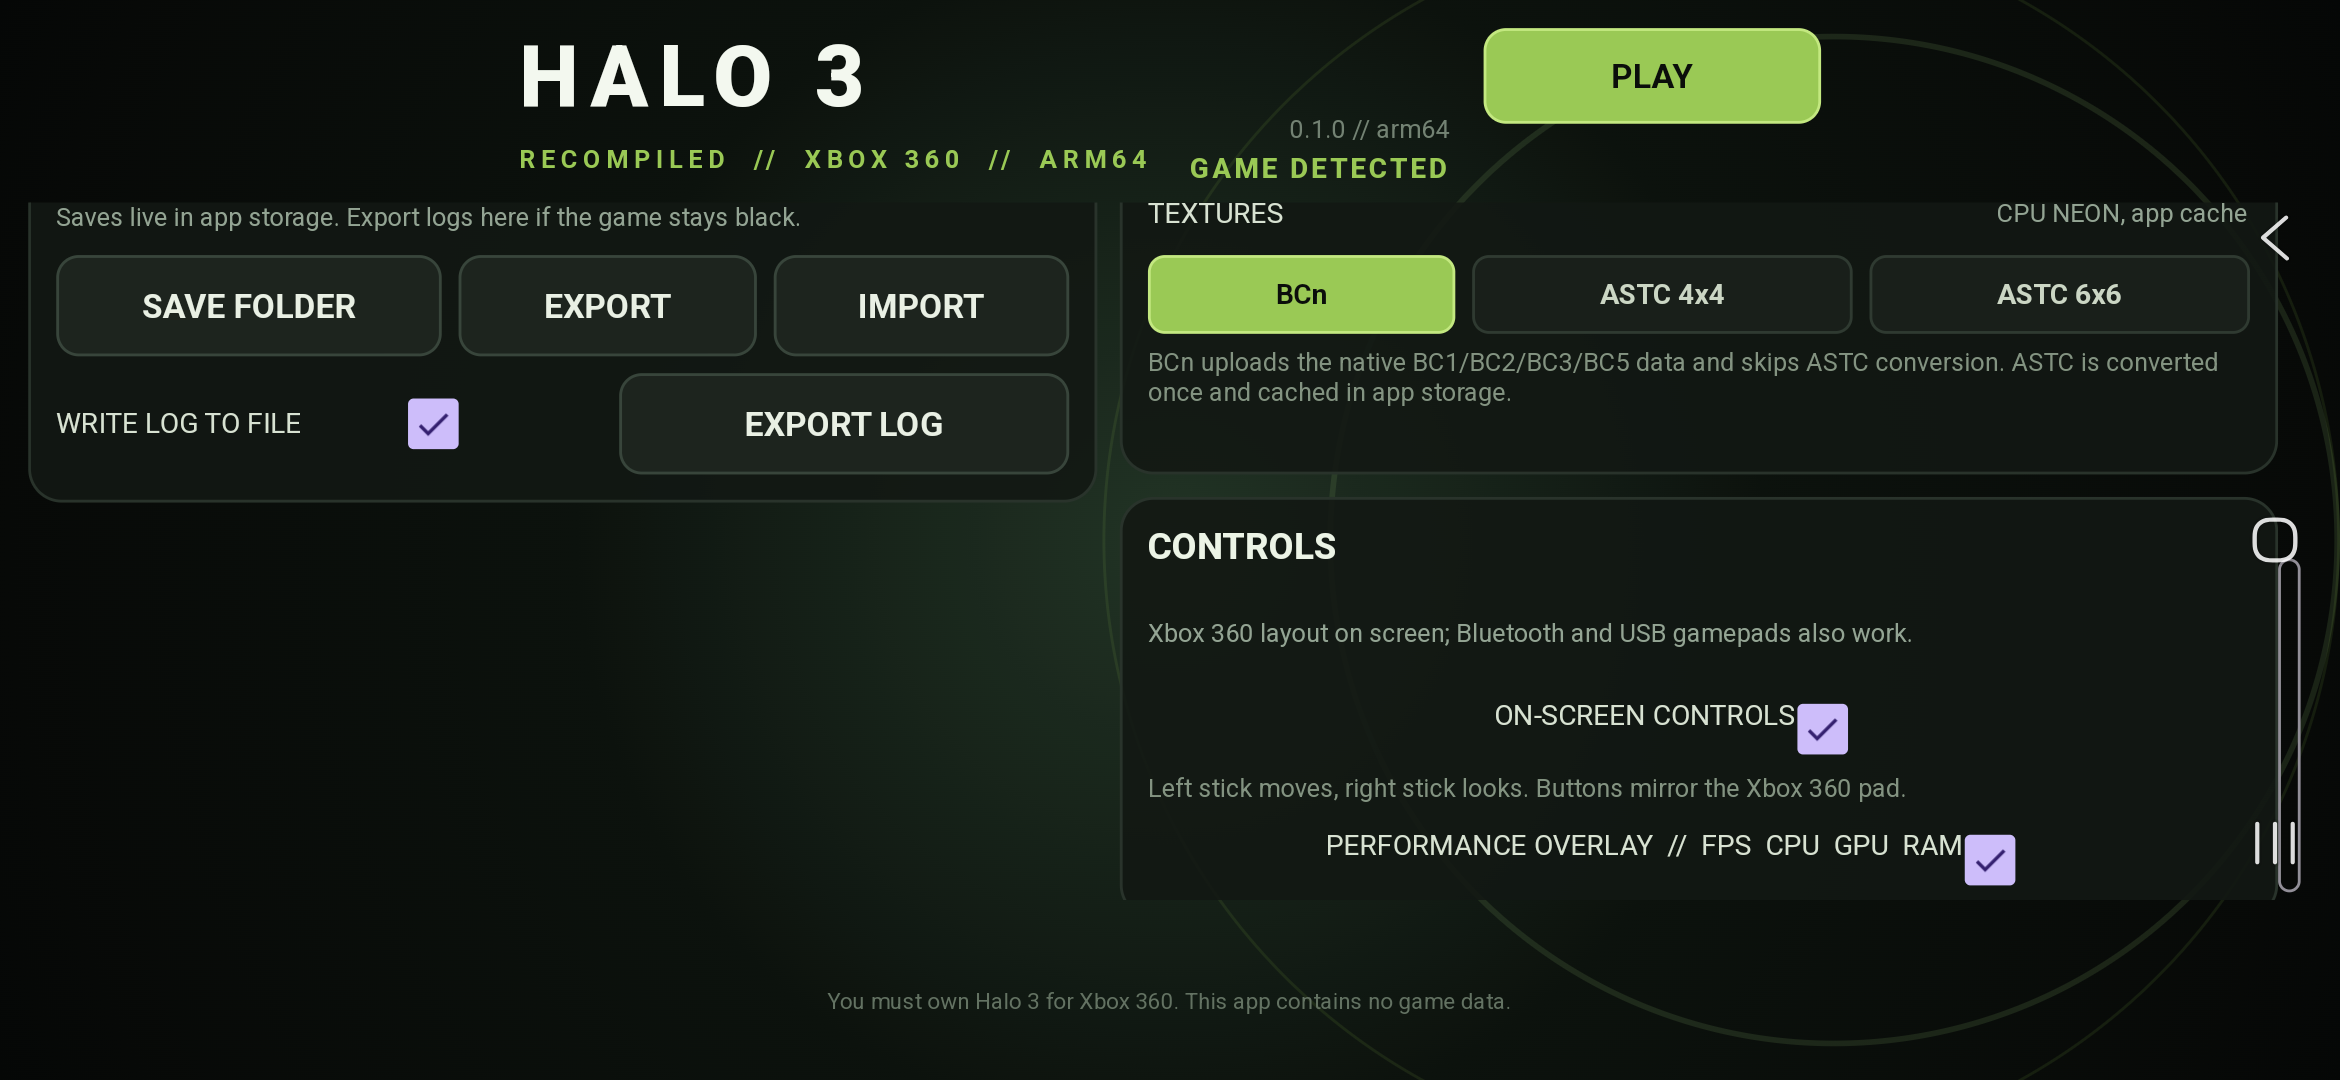
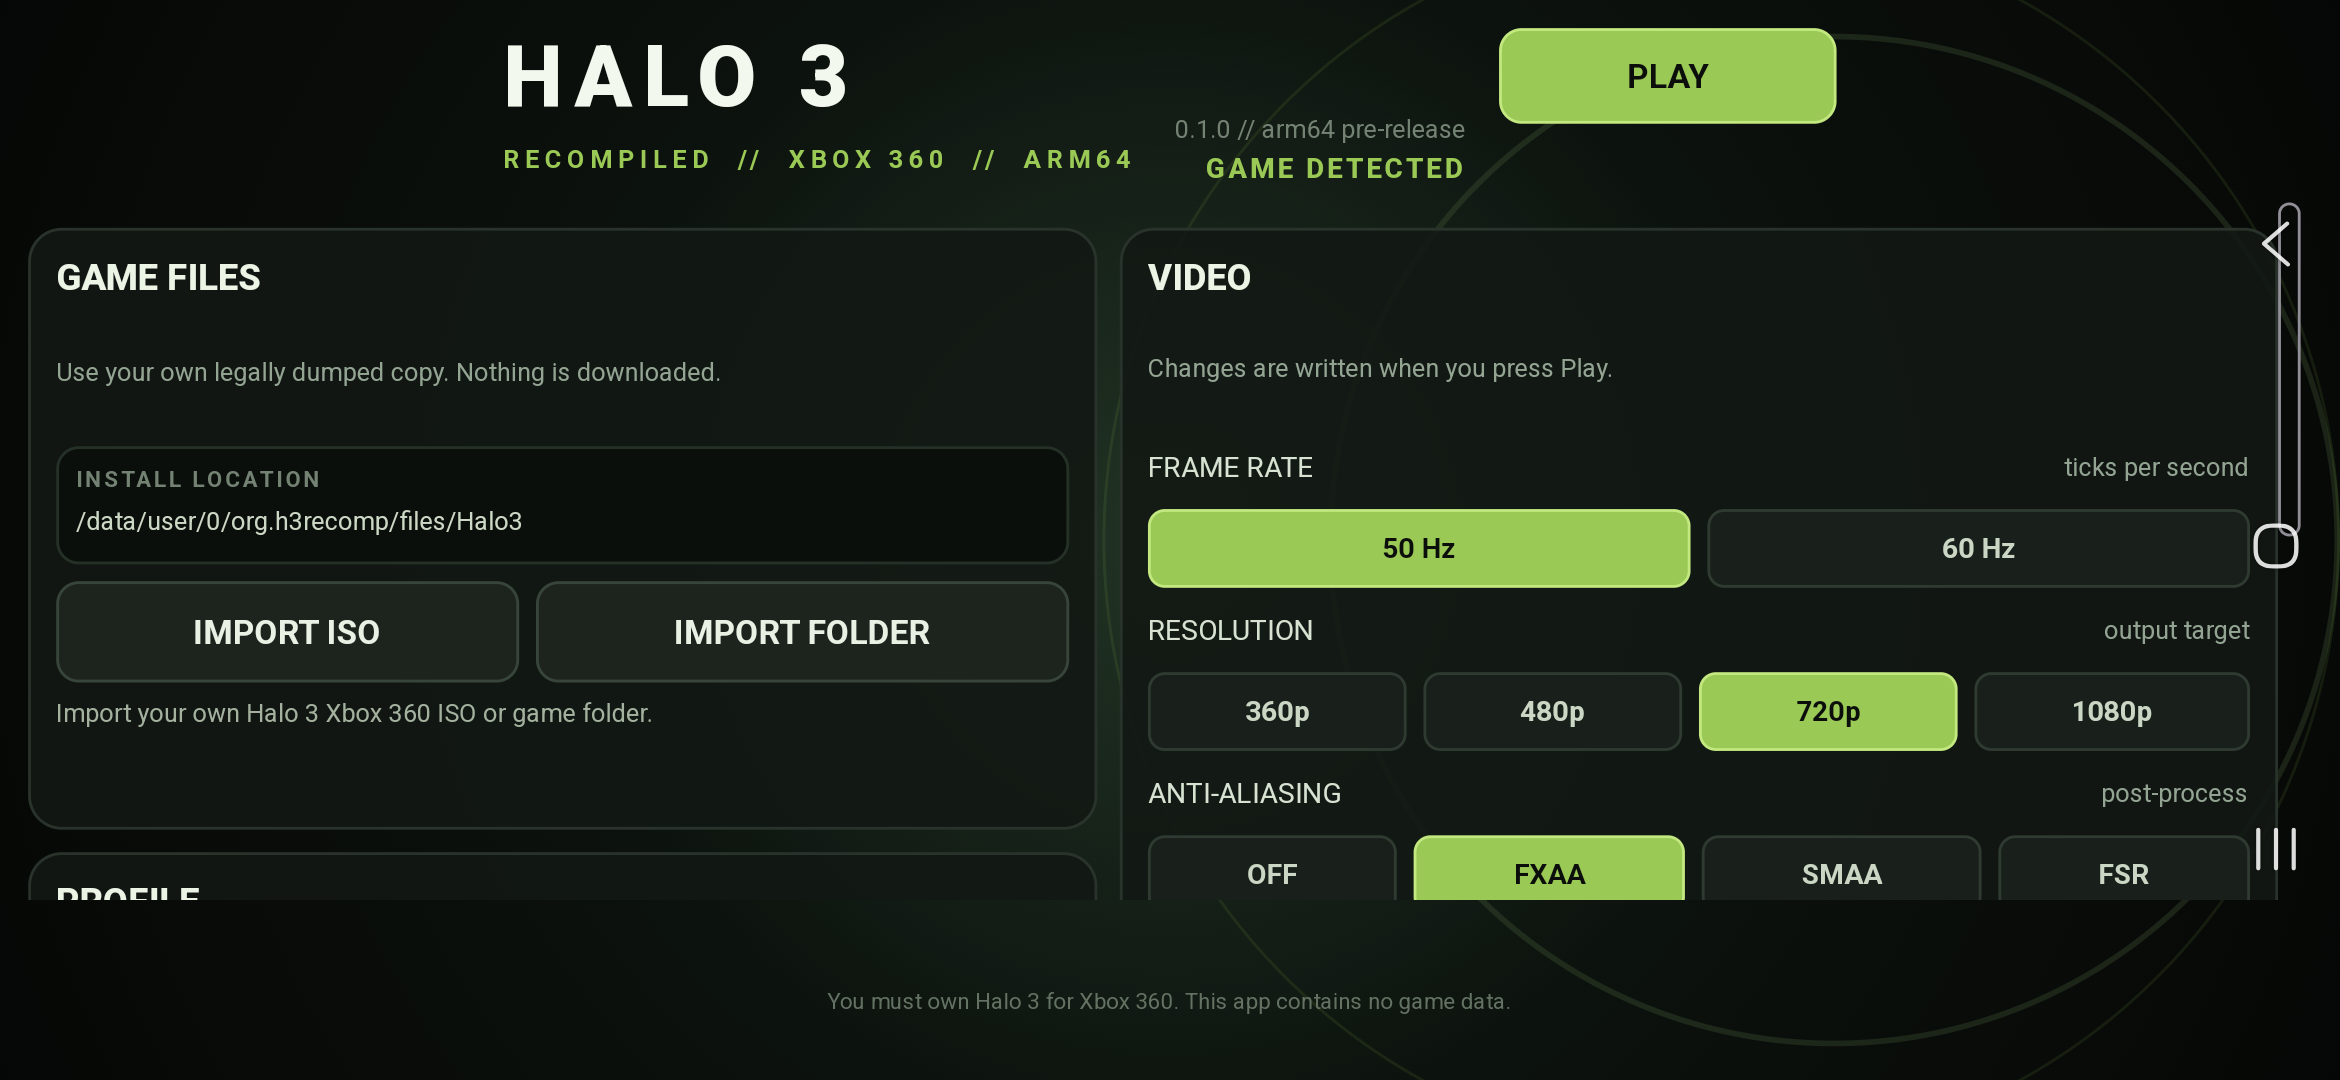
Release Android pre-release 0.1.0: BCn textures, A55 results and docs

diff --git a/android/menu/main.cpp b/android/menu/main.cpp
@@ -163,7 +163,7 @@ int main(int argc, char** argv)
     ui->set_performance_overlay(settings.video.performanceOverlay);
     ui->set_log_to_file(true);  // debug builds: log by default, the checkbox can disable it
     ui->set_texture_cache_index(settings.video.astcBlock == 6 ? 2 : settings.video.astcBlock == 4 ? 1 : 0);
-    ui->set_version(slint::SharedString("0.1.0 // arm64"));
+    ui->set_version(slint::SharedString("0.1.0 // arm64 pre-release"));
 
     RefreshGameState();
 
